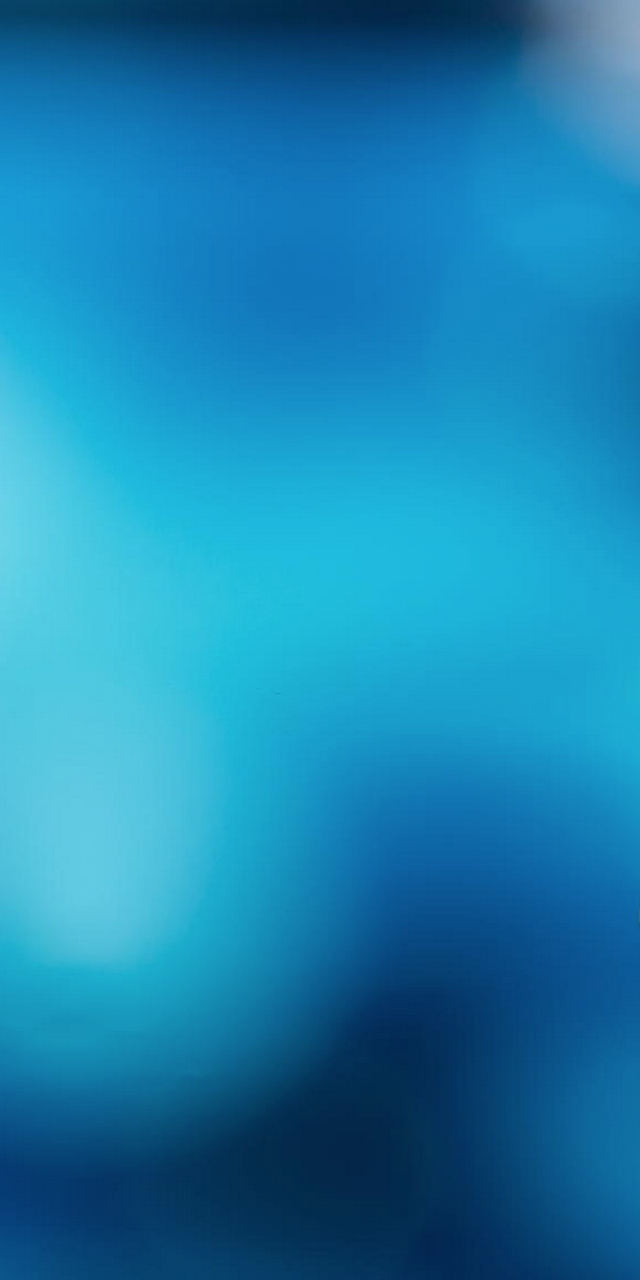
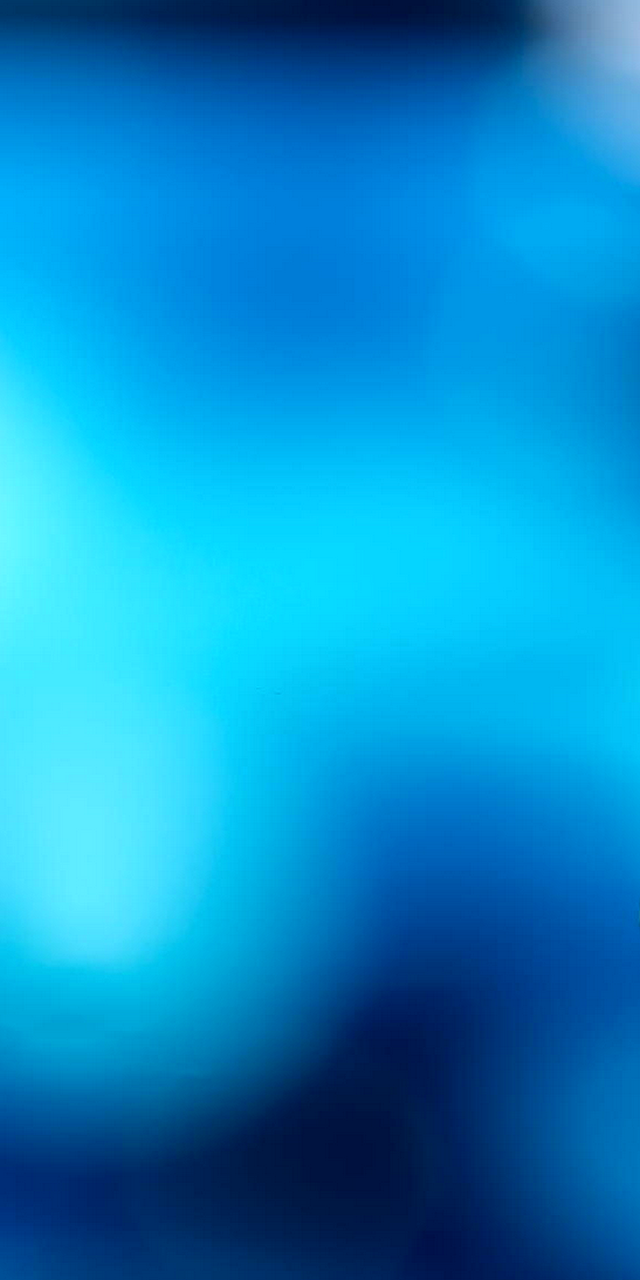
更换背景图

diff --git a/weilan/www/css/index.css b/weilan/www/css/index.css
@@ -1,1 +1,1 @@
-@font-face{font-family:'Exo 2';font-style:normal;font-weight:100;src:local("Exo 2 Thin"),local("Exo2-Thin"),url(../font/exo.woff) format("woff")}html{min-width:320px}body{background:url(../img/bg5.png);background-size:100%;font:15px/21px 'Exo 2', Roboto, sans-serif;font-weight:100;color:rgba(255,255,255,0.95);margin:0 auto;max-width:1000px;overflow-y:hidden}a{color:rgba(255,255,255,0.95);text-decoration:none}b{font-weight:bold}.copyright{font-size:13px;text-align:center}.copyright:last-child{padding-bottom:40px}.page{float:left;-moz-transform:translate3d(0, 0, 0);-ms-transform:translate3d(0, 0, 0);-o-transform:translate3d(0, 0, 0);-webkit-transform:translate3d(0, 0, 0);transform:translate3d(0, 0, 0);height:100%}.child-wrapper{height:100%;-moz-transform:translate3d(0, 0, 0);-ms-transform:translate3d(0, 0, 0);-o-transform:translate3d(0, 0, 0);-webkit-transform:translate3d(0, 0, 0);transform:translate3d(0, 0, 0)}.loading-wrap{width:100%;height:100%;position:absolute;top:0;left:0;z-index:9999;background-image:-webkit-gradient(linear, 50% 0%, 50% 100%, from(#33e4ff), to(#3e9aff));-moz-transition:opacity 0.5s;-o-transition:opacity 0.5s;-webkit-transition:opacity 0.5s;transition:opacity 0.5s}.loading-wrap.complete{opacity:0}.loading-wrap .loader,.loading-wrap .loader2{position:absolute;top:50%;left:50%;width:40px;height:40px;margin:-40px 0 0 -20px;border:2px solid transparent;border-top-color:#fff;border-radius:50%;-webkit-animation:spin 1s infinite}.loading-wrap .loader2{-webkit-animation:spin 2s infinite ease}.loading-wrap span{position:absolute;top:50%;left:50%;width:120px;text-align:center;margin:20px 0 0 -60px}.footer-time{margin:0;padding:0 10px 40px}.top-bar{-moz-transition:all 0.5s ease-out;-o-transition:all 0.5s ease-out;-webkit-transition:all 0.5s ease-out;transition:all 0.5s ease-out;-moz-transform:translate3d(0, -60px, 0);-ms-transform:translate3d(0, -60px, 0);-o-transform:translate3d(0, -60px, 0);-webkit-transform:translate3d(0, -60px, 0);transform:translate3d(0, -60px, 0);text-align:center;position:relative;margin:15px 10px 10px}.top-bar.complete{-moz-transform:translate3d(0, 0, 0);-ms-transform:translate3d(0, 0, 0);-o-transform:translate3d(0, 0, 0);-webkit-transform:translate3d(0, 0, 0);transform:translate3d(0, 0, 0)}.top-bar .pm25-icon{position:absolute;left:0;top:0;background:rgba(255,255,255,0.25);padding:0 10px;font-size:12px}.top-bar .time,.top-bar .date{position:absolute;right:0;top:0}.top-bar .time{top:21px}.top-bar .level{position:absolute;right:0;left:0;top:21px;font-size:12px}.top-bar .location{font-size:18px;vertical-align:middle}.dashboard{overflow:hidden;margin:15px 10px}.dashboard .big-bang{text-align:center;border-bottom:1px solid rgba(255,255,255,0.25)}.dashboard .big-bang .aqi-number{display:block;font-size:100px;line-height:1.2;opacity:0;white-space:nowrap;overflow:hidden;-ms-text-overflow:ellipsis;-o-text-overflow:ellipsis;text-overflow:ellipsis}.dashboard .big-bang .aqi-number.complete{-webkit-animation:bounceIn .7s}.dashboard .threesome-wrap{height:42px;overflow:hidden}.dashboard .threesome{text-align:center;float:left;width:33.33%;-moz-transition:all 0.4s;-o-transition:all 0.4s;-webkit-transition:all 0.4s;transition:all 0.4s;-moz-transform:translate3d(0, -42px, 0);-ms-transform:translate3d(0, -42px, 0);-o-transform:translate3d(0, -42px, 0);-webkit-transform:translate3d(0, -42px, 0);transform:translate3d(0, -42px, 0)}.dashboard .threesome.complete{-moz-transform:translate3d(0, 0, 0);-ms-transform:translate3d(0, 0, 0);-o-transform:translate3d(0, 0, 0);-webkit-transform:translate3d(0, 0, 0);transform:translate3d(0, 0, 0)}.dashboard .threesome:first-child{text-align:left}.dashboard .threesome:last-child{text-align:right;position:relative;left:1px}.dashboard .threesome .threesome-icon{background:rgba(255,255,255,0.25);display:inline-block;width:85px;font-size:13px;text-align:center;vertical-align:top}.dashboard .threesome .threesome-number{display:inline-block;width:85px;text-align:center;font-size:13px;font-family:Roboto, sans-serif}.guess{font-family:Arial, sans-serif;font-size:14px;background:rgba(255,255,255,0.1);margin:20px 10px 15px;overflow:hidden;text-align:center;opacity:0;-moz-transition:all 0.5s;-o-transition:all 0.5s;-webkit-transition:all 0.5s;transition:all 0.5s;-moz-transform:translate3d(0, -15px, 0);-ms-transform:translate3d(0, -15px, 0);-o-transform:translate3d(0, -15px, 0);-webkit-transform:translate3d(0, -15px, 0);transform:translate3d(0, -15px, 0)}.guess.complete{opacity:1;-moz-transform:translate3d(0, 0, 0);-ms-transform:translate3d(0, 0, 0);-o-transform:translate3d(0, 0, 0);-webkit-transform:translate3d(0, 0, 0);transform:translate3d(0, 0, 0)}.guess p{padding:0 20px}#aqiChart{width:100%;height:220px;opacity:0;-moz-transition:all 0.5s;-o-transition:all 0.5s;-webkit-transition:all 0.5s;transition:all 0.5s;-moz-transform:translate3d(0, 15px, 0);-ms-transform:translate3d(0, 15px, 0);-o-transform:translate3d(0, 15px, 0);-webkit-transform:translate3d(0, 15px, 0);transform:translate3d(0, 15px, 0)}#aqiChart.complete{opacity:1;-moz-transform:translate3d(0, 0, 0);-ms-transform:translate3d(0, 0, 0);-o-transform:translate3d(0, 0, 0);-webkit-transform:translate3d(0, 0, 0);transform:translate3d(0, 0, 0)}.weather-info{font-family:Roboto, sans-serif;font-size:13px;margin:0 10px;padding-bottom:40px;overflow:hidden;opacity:0;-moz-transition:all 0.5s;-o-transition:all 0.5s;-webkit-transition:all 0.5s;transition:all 0.5s;-moz-transform:translate3d(0, 15px, 0);-ms-transform:translate3d(0, 15px, 0);-o-transform:translate3d(0, 15px, 0);-webkit-transform:translate3d(0, 15px, 0);transform:translate3d(0, 15px, 0)}.weather-info.complete{opacity:1;-moz-transform:translate3d(0, 0, 0);-ms-transform:translate3d(0, 0, 0);-o-transform:translate3d(0, 0, 0);-webkit-transform:translate3d(0, 0, 0);transform:translate3d(0, 0, 0)}.weather-info .weather-threesome{width:33.3%;float:left;text-align:center}.weather-info .weather-threesome .weather-icon{height:21px;display:inline-block;vertical-align:bottom}.footer{width:100%;background:rgba(0,0,0,0.7);position:fixed;left:0;bottom:0}.footer ul{margin:0;padding:10px 0;list-style-type:none;overflow:hidden}.footer ul li{float:left;width:33.3%;text-align:center}.footer ul li img{height:21px;display:inline-block;vertical-align:bottom}.detail{font-size:14px;font-weight:300}.detail .detail-header{margin:15px 10px 0;overflow:hidden}.detail .detail-header .title{display:inline-block;padding:2px 10px;background-color:rgba(255,255,255,0.25)}.detail .detail-dashboard{overflow:hidden;margin:0 10px}.detail .detail-dashboard .section{padding:10px 0 20px;border-bottom:1px solid rgba(255,255,255,0.25)}.detail .detail-dashboard .section .eins{overflow:hidden}.detail .detail-dashboard .section .eins span{display:inline-block}.detail .detail-dashboard .section .eins .number{float:left;font-size:80px;line-height:80px}.detail .detail-dashboard .section .eins .zwei{overflow:hidden;padding-top:20px}.detail .detail-dashboard .section .eins .zwei p{margin:5px 0 0}.detail .detail-dashboard .section .eins .zwei .big{margin:0 10px;font-size:16px}.detail .detail-dashboard .section .eins .zwei .small{font-size:12px}.detail .detail-dashboard .section .drei{margin:10px 0 0;clear:both;overflow:hidden}.detail .detail-dashboard .section .drei .box{float:left;width:50%}.detail .detail-intro{overflow:hidden}.detail .detail-intro .intro-intro{clear:both;padding:15px 0 0;font-size:13px;line-height:1.5}#monthChart{width:100%;height:200px;margin:10px 0}#wrapper3{margin:15px 10px}.points{font-size:14px;font-weight:300}.points .points-header{overflow:hidden}.points .points-header .title{display:inline-block;padding:2px 10px;background-color:rgba(255,255,255,0.25)}.points .point-suggest{background-color:rgba(255,255,255,0.1);padding:10px;margin:15px 0 10px}.points .point-suggest span{display:block;margin-bottom:10px}.points .point-suggest p{margin:0}#pointsChart{width:100%;height:400px;margin-left:-10px}#wrapper4{margin:15px 10px}.citys{font-size:14px;font-weight:300}.citys .citys-header{overflow:hidden}.citys .citys-header .title{display:inline-block;padding:2px 10px;background-color:rgba(255,255,255,0.25)}.citys .my-city{margin:15px 0 10px;background-color:rgba(255,255,255,0.1);padding:10px}.citys .my-city span{display:inline-block;text-align:center}.citys .my-city .mycity-name{width:20%}.citys .my-city .mycity-rank,.citys .my-city .mycity-aqi{width:38%}#citysChart{width:100%;height:500px;margin-left:-10px}.fantastic{margin:15px 10px}.fantastic .fantastic-header{overflow:hidden}.fantastic .fantastic-header .title{display:inline-block;padding:2px 10px;background-color:rgba(255,255,255,0.25)}#allmap{width:100%;padding:15px 0;background-color:rgba(255,255,255,0.25);margin:10px 0;text-align:center;font-size:13px;-webkit-tap-highlight-color:transparent}#allmap.show{height:200px}#columnChart{width:100%;height:250px;margin:5px 0}.ios{padding:10px 0 0}@media only screen and (min-width: 1000px){.guess,.guess p{margin:20px 0}#aqiChart{height:380px}.detail .detail-dashboard .section{padding:10px 0 20px}.detail .detail-dashboard .section .drei{margin:10px 0 0}.detail .detail-dashboard .section .intro-intro{padding:20px 0 0}#monthChart{height:330px}#columnChart{height:350px}#allmap.show{height:250px}.points .point-suggest{padding:20px;margin:20px 0}#pointsChart{height:450px}#citysChart{height:620px}}@media only screen and (min-width: 700px) and (max-width: 1000px){.dashboard .big-bang .aqi-number{font-size:130px;line-height:1.2}.guess,.guess p{margin:20px 0}#aqiChart{height:480px}.guess,.weather-info{font-size:16px}.detail .detail-dashboard .section{padding:10px 0 20px;font-size:16px}.detail .detail-dashboard .section .eins .number{font-size:100px;line-height:1}.detail .detail-dashboard .section .eins .zwei{padding-top:35px}.detail .detail-dashboard .section .drei{margin:10px 0 0}.detail .detail-dashboard .section .intro-intro{padding:20px 0 0;font-size:16px}#monthChart{height:450px}#columnChart{height:500px}#allmap.show{height:350px}.points .point-suggest{padding:20px;margin:20px 0}#pointsChart{height:650px}#citysChart{height:820px}}@-moz-keyframes bounceIn{0%{opacity:0;-moz-transform:scale3d(0.5, 0.5, 1);transform:scale3d(0.5, 0.5, 1)}50%{opacity:1;-moz-transform:scale3d(1.05, 1.05, 1);transform:scale3d(1.05, 1.05, 1)}70%{-moz-transform:scale3d(0.9, 0.9, 1);transform:scale3d(0.9, 0.9, 1)}100%{-moz-transform:scale3d(1, 1, 1);transform:scale3d(1, 1, 1)}}@-webkit-keyframes bounceIn{0%{opacity:0;-webkit-transform:scale3d(0.5, 0.5, 1);transform:scale3d(0.5, 0.5, 1)}50%{opacity:1;-webkit-transform:scale3d(1.05, 1.05, 1);transform:scale3d(1.05, 1.05, 1)}70%{-webkit-transform:scale3d(0.9, 0.9, 1);transform:scale3d(0.9, 0.9, 1)}100%{-webkit-transform:scale3d(1, 1, 1);transform:scale3d(1, 1, 1)}}@keyframes bounceIn{0%{opacity:0;-moz-transform:scale3d(0.5, 0.5, 1);-ms-transform:scale3d(0.5, 0.5, 1);-o-transform:scale3d(0.5, 0.5, 1);-webkit-transform:scale3d(0.5, 0.5, 1);transform:scale3d(0.5, 0.5, 1)}50%{opacity:1;-moz-transform:scale3d(1.05, 1.05, 1);-ms-transform:scale3d(1.05, 1.05, 1);-o-transform:scale3d(1.05, 1.05, 1);-webkit-transform:scale3d(1.05, 1.05, 1);transform:scale3d(1.05, 1.05, 1)}70%{-moz-transform:scale3d(0.9, 0.9, 1);-ms-transform:scale3d(0.9, 0.9, 1);-o-transform:scale3d(0.9, 0.9, 1);-webkit-transform:scale3d(0.9, 0.9, 1);transform:scale3d(0.9, 0.9, 1)}100%{-moz-transform:scale3d(1, 1, 1);-ms-transform:scale3d(1, 1, 1);-o-transform:scale3d(1, 1, 1);-webkit-transform:scale3d(1, 1, 1);transform:scale3d(1, 1, 1)}}@-moz-keyframes bounceInDown{0%{opacity:0;-moz-transform:translate3d(0, -15px, 0);transform:translate3d(0, -15px, 0)}60%{opacity:1;-moz-transform:translate3d(0, 10px, 0);transform:translate3d(0, 10px, 0)}80%{-moz-transform:translate3d(0, -5px, 0);transform:translate3d(0, -5px, 0)}100%{-moz-transform:translate3d(0, 0, 0);transform:translate3d(0, 0, 0)}}@-webkit-keyframes bounceInDown{0%{opacity:0;-webkit-transform:translate3d(0, -15px, 0);transform:translate3d(0, -15px, 0)}60%{opacity:1;-webkit-transform:translate3d(0, 10px, 0);transform:translate3d(0, 10px, 0)}80%{-webkit-transform:translate3d(0, -5px, 0);transform:translate3d(0, -5px, 0)}100%{-webkit-transform:translate3d(0, 0, 0);transform:translate3d(0, 0, 0)}}@keyframes bounceInDown{0%{opacity:0;-moz-transform:translate3d(0, -15px, 0);-ms-transform:translate3d(0, -15px, 0);-o-transform:translate3d(0, -15px, 0);-webkit-transform:translate3d(0, -15px, 0);transform:translate3d(0, -15px, 0)}60%{opacity:1;-moz-transform:translate3d(0, 10px, 0);-ms-transform:translate3d(0, 10px, 0);-o-transform:translate3d(0, 10px, 0);-webkit-transform:translate3d(0, 10px, 0);transform:translate3d(0, 10px, 0)}80%{-moz-transform:translate3d(0, -5px, 0);-ms-transform:translate3d(0, -5px, 0);-o-transform:translate3d(0, -5px, 0);-webkit-transform:translate3d(0, -5px, 0);transform:translate3d(0, -5px, 0)}100%{-moz-transform:translate3d(0, 0, 0);-ms-transform:translate3d(0, 0, 0);-o-transform:translate3d(0, 0, 0);-webkit-transform:translate3d(0, 0, 0);transform:translate3d(0, 0, 0)}}@-moz-keyframes rubberBand{0%{-moz-transform:scale3d(1, 1, 1);transform:scale3d(1, 1, 1)}30%{-moz-transform:scale3d(1.25, 0.75, 1);transform:scale3d(1.25, 0.75, 1)}40%{-moz-transform:scale3d(0.75, 1.25, 1);transform:scale3d(0.75, 1.25, 1)}60%{-moz-transform:scale3d(1.15, 0.85, 1);transform:scale3d(1.15, 0.85, 1)}100%{-moz-transform:scale3d(1, 1, 1);transform:scale3d(1, 1, 1)}}@-webkit-keyframes rubberBand{0%{-webkit-transform:scale3d(1, 1, 1);transform:scale3d(1, 1, 1)}30%{-webkit-transform:scale3d(1.25, 0.75, 1);transform:scale3d(1.25, 0.75, 1)}40%{-webkit-transform:scale3d(0.75, 1.25, 1);transform:scale3d(0.75, 1.25, 1)}60%{-webkit-transform:scale3d(1.15, 0.85, 1);transform:scale3d(1.15, 0.85, 1)}100%{-webkit-transform:scale3d(1, 1, 1);transform:scale3d(1, 1, 1)}}@keyframes rubberBand{0%{-moz-transform:scale3d(1, 1, 1);-ms-transform:scale3d(1, 1, 1);-o-transform:scale3d(1, 1, 1);-webkit-transform:scale3d(1, 1, 1);transform:scale3d(1, 1, 1)}30%{-moz-transform:scale3d(1.25, 0.75, 1);-ms-transform:scale3d(1.25, 0.75, 1);-o-transform:scale3d(1.25, 0.75, 1);-webkit-transform:scale3d(1.25, 0.75, 1);transform:scale3d(1.25, 0.75, 1)}40%{-moz-transform:scale3d(0.75, 1.25, 1);-ms-transform:scale3d(0.75, 1.25, 1);-o-transform:scale3d(0.75, 1.25, 1);-webkit-transform:scale3d(0.75, 1.25, 1);transform:scale3d(0.75, 1.25, 1)}60%{-moz-transform:scale3d(1.15, 0.85, 1);-ms-transform:scale3d(1.15, 0.85, 1);-o-transform:scale3d(1.15, 0.85, 1);-webkit-transform:scale3d(1.15, 0.85, 1);transform:scale3d(1.15, 0.85, 1)}100%{-moz-transform:scale3d(1, 1, 1);-ms-transform:scale3d(1, 1, 1);-o-transform:scale3d(1, 1, 1);-webkit-transform:scale3d(1, 1, 1);transform:scale3d(1, 1, 1)}}@-moz-keyframes spin{from{-moz-transform:rotate(0);transform:rotate(0)}to{-moz-transform:rotate(360deg);transform:rotate(360deg)}}@-webkit-keyframes spin{from{-webkit-transform:rotate(0);transform:rotate(0)}to{-webkit-transform:rotate(360deg);transform:rotate(360deg)}}@keyframes spin{from{-moz-transform:rotate(0);-ms-transform:rotate(0);-o-transform:rotate(0);-webkit-transform:rotate(0);transform:rotate(0)}to{-moz-transform:rotate(360deg);-ms-transform:rotate(360deg);-o-transform:rotate(360deg);-webkit-transform:rotate(360deg);transform:rotate(360deg)}}
+@font-face{font-family:'Exo 2';font-style:normal;font-weight:100;src:local("Exo 2 Thin"),local("Exo2-Thin"),url(../font/exo.woff) format("woff")}html{min-width:320px}body{background:url(../img/bg4.png);background-size:100%;font:15px/21px 'Exo 2', Roboto, sans-serif;font-weight:100;color:rgba(255,255,255,0.95);margin:0 auto;max-width:1000px;overflow-y:hidden}a{color:rgba(255,255,255,0.95);text-decoration:none}b{font-weight:bold}.copyright{font-size:13px;text-align:center}.copyright:last-child{padding-bottom:40px}.page{float:left;-moz-transform:translate3d(0, 0, 0);-ms-transform:translate3d(0, 0, 0);-o-transform:translate3d(0, 0, 0);-webkit-transform:translate3d(0, 0, 0);transform:translate3d(0, 0, 0);height:100%}.child-wrapper{height:100%;-moz-transform:translate3d(0, 0, 0);-ms-transform:translate3d(0, 0, 0);-o-transform:translate3d(0, 0, 0);-webkit-transform:translate3d(0, 0, 0);transform:translate3d(0, 0, 0)}.loading-wrap{width:100%;height:100%;position:absolute;top:0;left:0;z-index:9999;background-image:-webkit-gradient(linear, 50% 0%, 50% 100%, from(#33e4ff), to(#3e9aff));-moz-transition:opacity 0.5s;-o-transition:opacity 0.5s;-webkit-transition:opacity 0.5s;transition:opacity 0.5s}.loading-wrap.complete{opacity:0}.loading-wrap .loader,.loading-wrap .loader2{position:absolute;top:50%;left:50%;width:40px;height:40px;margin:-40px 0 0 -20px;border:2px solid transparent;border-top-color:#fff;border-radius:50%;-webkit-animation:spin 1s infinite}.loading-wrap .loader2{-webkit-animation:spin 2s infinite ease}.loading-wrap span{position:absolute;top:50%;left:50%;width:120px;text-align:center;margin:20px 0 0 -60px}.footer-time{margin:0;padding:0 10px 40px}.top-bar{-moz-transition:all 0.5s ease-out;-o-transition:all 0.5s ease-out;-webkit-transition:all 0.5s ease-out;transition:all 0.5s ease-out;-moz-transform:translate3d(0, -60px, 0);-ms-transform:translate3d(0, -60px, 0);-o-transform:translate3d(0, -60px, 0);-webkit-transform:translate3d(0, -60px, 0);transform:translate3d(0, -60px, 0);text-align:center;position:relative;margin:15px 10px 10px}.top-bar.complete{-moz-transform:translate3d(0, 0, 0);-ms-transform:translate3d(0, 0, 0);-o-transform:translate3d(0, 0, 0);-webkit-transform:translate3d(0, 0, 0);transform:translate3d(0, 0, 0)}.top-bar .pm25-icon{position:absolute;left:0;top:0;background:rgba(255,255,255,0.25);padding:0 10px;font-size:12px}.top-bar .time,.top-bar .date{position:absolute;right:0;top:0}.top-bar .time{top:21px}.top-bar .level{position:absolute;right:0;left:0;top:21px;font-size:12px}.top-bar .location{font-size:18px;vertical-align:middle}.dashboard{overflow:hidden;margin:10px}.dashboard .big-bang{text-align:center;border-bottom:1px solid rgba(255,255,255,0.25)}.dashboard .big-bang .aqi-number{display:block;font-size:100px;line-height:1.2;opacity:0;white-space:nowrap;overflow:hidden;-ms-text-overflow:ellipsis;-o-text-overflow:ellipsis;text-overflow:ellipsis}.dashboard .big-bang .aqi-number.complete{-webkit-animation:bounceIn .7s}.dashboard .threesome-wrap{height:42px;overflow:hidden}.dashboard .threesome{text-align:center;float:left;width:33.33%;-moz-transition:all 0.4s;-o-transition:all 0.4s;-webkit-transition:all 0.4s;transition:all 0.4s;-moz-transform:translate3d(0, -42px, 0);-ms-transform:translate3d(0, -42px, 0);-o-transform:translate3d(0, -42px, 0);-webkit-transform:translate3d(0, -42px, 0);transform:translate3d(0, -42px, 0)}.dashboard .threesome.complete{-moz-transform:translate3d(0, 0, 0);-ms-transform:translate3d(0, 0, 0);-o-transform:translate3d(0, 0, 0);-webkit-transform:translate3d(0, 0, 0);transform:translate3d(0, 0, 0)}.dashboard .threesome:first-child{text-align:left}.dashboard .threesome:last-child{text-align:right;position:relative;left:1px}.dashboard .threesome .threesome-icon{background:rgba(255,255,255,0.25);display:inline-block;width:85px;font-size:13px;text-align:center;vertical-align:top}.dashboard .threesome .threesome-number{display:inline-block;width:85px;text-align:center;font-size:13px;font-family:Roboto, sans-serif}.guess{font-family:Arial, sans-serif;font-size:14px;background:rgba(255,255,255,0.1);margin:10px 10px 5px;overflow:hidden;text-align:center;opacity:0;-moz-transition:all 0.5s;-o-transition:all 0.5s;-webkit-transition:all 0.5s;transition:all 0.5s;-moz-transform:translate3d(0, -15px, 0);-ms-transform:translate3d(0, -15px, 0);-o-transform:translate3d(0, -15px, 0);-webkit-transform:translate3d(0, -15px, 0);transform:translate3d(0, -15px, 0)}.guess.complete{opacity:1;-moz-transform:translate3d(0, 0, 0);-ms-transform:translate3d(0, 0, 0);-o-transform:translate3d(0, 0, 0);-webkit-transform:translate3d(0, 0, 0);transform:translate3d(0, 0, 0)}.guess p{padding:0 20px}#aqiChart{width:100%;height:200px;opacity:0;-moz-transition:all 0.5s;-o-transition:all 0.5s;-webkit-transition:all 0.5s;transition:all 0.5s;-moz-transform:translate3d(0, 15px, 0);-ms-transform:translate3d(0, 15px, 0);-o-transform:translate3d(0, 15px, 0);-webkit-transform:translate3d(0, 15px, 0);transform:translate3d(0, 15px, 0)}#aqiChart.complete{opacity:1;-moz-transform:translate3d(0, 0, 0);-ms-transform:translate3d(0, 0, 0);-o-transform:translate3d(0, 0, 0);-webkit-transform:translate3d(0, 0, 0);transform:translate3d(0, 0, 0)}.weather-info{font-family:Roboto, sans-serif;font-size:13px;margin:0 10px;padding-bottom:40px;overflow:hidden;opacity:0;-moz-transition:all 0.5s;-o-transition:all 0.5s;-webkit-transition:all 0.5s;transition:all 0.5s;-moz-transform:translate3d(0, 15px, 0);-ms-transform:translate3d(0, 15px, 0);-o-transform:translate3d(0, 15px, 0);-webkit-transform:translate3d(0, 15px, 0);transform:translate3d(0, 15px, 0)}.weather-info.complete{opacity:1;-moz-transform:translate3d(0, 0, 0);-ms-transform:translate3d(0, 0, 0);-o-transform:translate3d(0, 0, 0);-webkit-transform:translate3d(0, 0, 0);transform:translate3d(0, 0, 0)}.weather-info .weather-threesome{width:33.3%;float:left;text-align:center}.weather-info .weather-threesome .weather-icon{height:21px;display:inline-block;vertical-align:bottom}.footer{width:100%;background:rgba(0,0,0,0.7);position:fixed;left:0;bottom:0}.footer ul{margin:0;padding:10px 0;list-style-type:none;overflow:hidden}.footer ul li{float:left;width:33.3%;text-align:center}.footer ul li img{height:21px;display:inline-block;vertical-align:bottom}.detail{font-size:14px;font-weight:300}.detail .detail-header{margin:15px 10px 0;overflow:hidden}.detail .detail-header .title{display:inline-block;padding:2px 10px;background-color:rgba(255,255,255,0.25)}.detail .detail-dashboard{overflow:hidden;margin:0 10px}.detail .detail-dashboard .section{padding:10px 0 20px;border-bottom:1px solid rgba(255,255,255,0.25)}.detail .detail-dashboard .section .eins{overflow:hidden}.detail .detail-dashboard .section .eins span{display:inline-block}.detail .detail-dashboard .section .eins .number{float:left;font-size:80px;line-height:80px}.detail .detail-dashboard .section .eins .zwei{overflow:hidden;padding-top:20px}.detail .detail-dashboard .section .eins .zwei p{margin:5px 0 0}.detail .detail-dashboard .section .eins .zwei .big{margin:0 10px;font-size:16px}.detail .detail-dashboard .section .eins .zwei .small{font-size:12px}.detail .detail-dashboard .section .drei{margin:10px 0 0;clear:both;overflow:hidden}.detail .detail-dashboard .section .drei .box{float:left;width:50%}.detail .detail-intro{overflow:hidden}.detail .detail-intro .intro-intro{clear:both;padding:15px 0 0;font-size:13px;line-height:1.5}#monthChart{width:100%;height:200px;margin:10px 0}#wrapper3{margin:15px 10px}.points{font-size:14px;font-weight:300}.points .points-header{overflow:hidden}.points .points-header .title{display:inline-block;padding:2px 10px;background-color:rgba(255,255,255,0.25)}.points .point-suggest{background-color:rgba(255,255,255,0.1);padding:10px;margin:15px 0 10px}.points .point-suggest span{display:block;margin-bottom:10px}.points .point-suggest p{margin:0}#pointsChart{width:100%;height:400px;margin-left:-10px}#wrapper4{margin:15px 10px}.citys{font-size:14px;font-weight:300}.citys .citys-header{overflow:hidden}.citys .citys-header .title{display:inline-block;padding:2px 10px;background-color:rgba(255,255,255,0.25)}.citys .my-city{margin:15px 0 10px;background-color:rgba(255,255,255,0.1);padding:10px}.citys .my-city span{display:inline-block;text-align:center}.citys .my-city .mycity-name{width:20%}.citys .my-city .mycity-rank,.citys .my-city .mycity-aqi{width:38%}#citysChart{width:100%;height:500px;margin-left:-10px}.fantastic{margin:15px 10px}.fantastic .fantastic-header{overflow:hidden}.fantastic .fantastic-header .title{display:inline-block;padding:2px 10px;background-color:rgba(255,255,255,0.25)}#allmap{width:100%;padding:15px 0;background-color:rgba(255,255,255,0.25);margin:10px 0;text-align:center;font-size:13px;-webkit-tap-highlight-color:transparent}#allmap.show{height:200px}#columnChart{width:100%;height:250px;margin:5px 0}.ios{padding:10px 0 0}@media only screen and (min-width: 1000px){.guess,.guess p{margin:20px 0}#aqiChart{height:380px}.detail .detail-dashboard .section{padding:10px 0 20px}.detail .detail-dashboard .section .drei{margin:10px 0 0}.detail .detail-dashboard .section .intro-intro{padding:20px 0 0}#monthChart{height:330px}#columnChart{height:350px}#allmap.show{height:250px}.points .point-suggest{padding:20px;margin:20px 0}#pointsChart{height:450px}#citysChart{height:620px}}@media only screen and (min-width: 700px) and (max-width: 1000px){.dashboard .big-bang .aqi-number{font-size:130px;line-height:1.2}.guess,.guess p{margin:20px 0}#aqiChart{height:480px}.guess,.weather-info{font-size:16px}.detail .detail-dashboard .section{padding:10px 0 20px;font-size:16px}.detail .detail-dashboard .section .eins .number{font-size:100px;line-height:1}.detail .detail-dashboard .section .eins .zwei{padding-top:35px}.detail .detail-dashboard .section .drei{margin:10px 0 0}.detail .detail-dashboard .section .intro-intro{padding:20px 0 0;font-size:16px}#monthChart{height:450px}#columnChart{height:500px}#allmap.show{height:350px}.points .point-suggest{padding:20px;margin:20px 0}#pointsChart{height:650px}#citysChart{height:820px}}@-moz-keyframes bounceIn{0%{opacity:0;-moz-transform:scale3d(0.5, 0.5, 1);transform:scale3d(0.5, 0.5, 1)}50%{opacity:1;-moz-transform:scale3d(1.05, 1.05, 1);transform:scale3d(1.05, 1.05, 1)}70%{-moz-transform:scale3d(0.9, 0.9, 1);transform:scale3d(0.9, 0.9, 1)}100%{-moz-transform:scale3d(1, 1, 1);transform:scale3d(1, 1, 1)}}@-webkit-keyframes bounceIn{0%{opacity:0;-webkit-transform:scale3d(0.5, 0.5, 1);transform:scale3d(0.5, 0.5, 1)}50%{opacity:1;-webkit-transform:scale3d(1.05, 1.05, 1);transform:scale3d(1.05, 1.05, 1)}70%{-webkit-transform:scale3d(0.9, 0.9, 1);transform:scale3d(0.9, 0.9, 1)}100%{-webkit-transform:scale3d(1, 1, 1);transform:scale3d(1, 1, 1)}}@keyframes bounceIn{0%{opacity:0;-moz-transform:scale3d(0.5, 0.5, 1);-ms-transform:scale3d(0.5, 0.5, 1);-o-transform:scale3d(0.5, 0.5, 1);-webkit-transform:scale3d(0.5, 0.5, 1);transform:scale3d(0.5, 0.5, 1)}50%{opacity:1;-moz-transform:scale3d(1.05, 1.05, 1);-ms-transform:scale3d(1.05, 1.05, 1);-o-transform:scale3d(1.05, 1.05, 1);-webkit-transform:scale3d(1.05, 1.05, 1);transform:scale3d(1.05, 1.05, 1)}70%{-moz-transform:scale3d(0.9, 0.9, 1);-ms-transform:scale3d(0.9, 0.9, 1);-o-transform:scale3d(0.9, 0.9, 1);-webkit-transform:scale3d(0.9, 0.9, 1);transform:scale3d(0.9, 0.9, 1)}100%{-moz-transform:scale3d(1, 1, 1);-ms-transform:scale3d(1, 1, 1);-o-transform:scale3d(1, 1, 1);-webkit-transform:scale3d(1, 1, 1);transform:scale3d(1, 1, 1)}}@-moz-keyframes bounceInDown{0%{opacity:0;-moz-transform:translate3d(0, -15px, 0);transform:translate3d(0, -15px, 0)}60%{opacity:1;-moz-transform:translate3d(0, 10px, 0);transform:translate3d(0, 10px, 0)}80%{-moz-transform:translate3d(0, -5px, 0);transform:translate3d(0, -5px, 0)}100%{-moz-transform:translate3d(0, 0, 0);transform:translate3d(0, 0, 0)}}@-webkit-keyframes bounceInDown{0%{opacity:0;-webkit-transform:translate3d(0, -15px, 0);transform:translate3d(0, -15px, 0)}60%{opacity:1;-webkit-transform:translate3d(0, 10px, 0);transform:translate3d(0, 10px, 0)}80%{-webkit-transform:translate3d(0, -5px, 0);transform:translate3d(0, -5px, 0)}100%{-webkit-transform:translate3d(0, 0, 0);transform:translate3d(0, 0, 0)}}@keyframes bounceInDown{0%{opacity:0;-moz-transform:translate3d(0, -15px, 0);-ms-transform:translate3d(0, -15px, 0);-o-transform:translate3d(0, -15px, 0);-webkit-transform:translate3d(0, -15px, 0);transform:translate3d(0, -15px, 0)}60%{opacity:1;-moz-transform:translate3d(0, 10px, 0);-ms-transform:translate3d(0, 10px, 0);-o-transform:translate3d(0, 10px, 0);-webkit-transform:translate3d(0, 10px, 0);transform:translate3d(0, 10px, 0)}80%{-moz-transform:translate3d(0, -5px, 0);-ms-transform:translate3d(0, -5px, 0);-o-transform:translate3d(0, -5px, 0);-webkit-transform:translate3d(0, -5px, 0);transform:translate3d(0, -5px, 0)}100%{-moz-transform:translate3d(0, 0, 0);-ms-transform:translate3d(0, 0, 0);-o-transform:translate3d(0, 0, 0);-webkit-transform:translate3d(0, 0, 0);transform:translate3d(0, 0, 0)}}@-moz-keyframes rubberBand{0%{-moz-transform:scale3d(1, 1, 1);transform:scale3d(1, 1, 1)}30%{-moz-transform:scale3d(1.25, 0.75, 1);transform:scale3d(1.25, 0.75, 1)}40%{-moz-transform:scale3d(0.75, 1.25, 1);transform:scale3d(0.75, 1.25, 1)}60%{-moz-transform:scale3d(1.15, 0.85, 1);transform:scale3d(1.15, 0.85, 1)}100%{-moz-transform:scale3d(1, 1, 1);transform:scale3d(1, 1, 1)}}@-webkit-keyframes rubberBand{0%{-webkit-transform:scale3d(1, 1, 1);transform:scale3d(1, 1, 1)}30%{-webkit-transform:scale3d(1.25, 0.75, 1);transform:scale3d(1.25, 0.75, 1)}40%{-webkit-transform:scale3d(0.75, 1.25, 1);transform:scale3d(0.75, 1.25, 1)}60%{-webkit-transform:scale3d(1.15, 0.85, 1);transform:scale3d(1.15, 0.85, 1)}100%{-webkit-transform:scale3d(1, 1, 1);transform:scale3d(1, 1, 1)}}@keyframes rubberBand{0%{-moz-transform:scale3d(1, 1, 1);-ms-transform:scale3d(1, 1, 1);-o-transform:scale3d(1, 1, 1);-webkit-transform:scale3d(1, 1, 1);transform:scale3d(1, 1, 1)}30%{-moz-transform:scale3d(1.25, 0.75, 1);-ms-transform:scale3d(1.25, 0.75, 1);-o-transform:scale3d(1.25, 0.75, 1);-webkit-transform:scale3d(1.25, 0.75, 1);transform:scale3d(1.25, 0.75, 1)}40%{-moz-transform:scale3d(0.75, 1.25, 1);-ms-transform:scale3d(0.75, 1.25, 1);-o-transform:scale3d(0.75, 1.25, 1);-webkit-transform:scale3d(0.75, 1.25, 1);transform:scale3d(0.75, 1.25, 1)}60%{-moz-transform:scale3d(1.15, 0.85, 1);-ms-transform:scale3d(1.15, 0.85, 1);-o-transform:scale3d(1.15, 0.85, 1);-webkit-transform:scale3d(1.15, 0.85, 1);transform:scale3d(1.15, 0.85, 1)}100%{-moz-transform:scale3d(1, 1, 1);-ms-transform:scale3d(1, 1, 1);-o-transform:scale3d(1, 1, 1);-webkit-transform:scale3d(1, 1, 1);transform:scale3d(1, 1, 1)}}@-moz-keyframes spin{from{-moz-transform:rotate(0);transform:rotate(0)}to{-moz-transform:rotate(360deg);transform:rotate(360deg)}}@-webkit-keyframes spin{from{-webkit-transform:rotate(0);transform:rotate(0)}to{-webkit-transform:rotate(360deg);transform:rotate(360deg)}}@keyframes spin{from{-moz-transform:rotate(0);-ms-transform:rotate(0);-o-transform:rotate(0);-webkit-transform:rotate(0);transform:rotate(0)}to{-moz-transform:rotate(360deg);-ms-transform:rotate(360deg);-o-transform:rotate(360deg);-webkit-transform:rotate(360deg);transform:rotate(360deg)}}

diff --git a/weilan/www/sass/index.scss b/weilan/www/sass/index.scss
@@ -14,7 +14,7 @@ html {
     min-width: 320px;
 }
 body {
-    background: url(../img/bg5.png);
+    background: url(../img/bg4.png);
     background-size: 100%;
     font: 15px/21px 'Exo 2', Roboto, sans-serif;
     font-weight: 100;
@@ -135,7 +135,7 @@ b {
 }
 .dashboard {
     overflow: hidden;
-    margin: 15px 10px;
+    margin: 10px;
 
     .big-bang {
         text-align: center;
@@ -194,7 +194,7 @@ b {
     font-family: Arial, sans-serif;
     font-size: 14px;
     background: $grey4;
-    margin: 20px 10px 15px;
+    margin: 10px 10px 5px;
     overflow: hidden;
     text-align: center;
     opacity: 0;
@@ -212,7 +212,7 @@ b {
 }
 #aqiChart {
     width: 100%;
-    height: 220px;
+    height: 200px;
     opacity: 0;
     @include transition(all .5s);
     @include transform(translate3d(0,15px,0));

diff --git a/weilan/www/js/index.js b/weilan/www/js/index.js
@@ -724,9 +724,7 @@ var renderColumnChart = function (pm25Array) {
             labels: {
                 style: {
                     color: grey2
-                },
-                align: 'left',
-                x: 10
+                }
             }
         },
         yAxis: {
